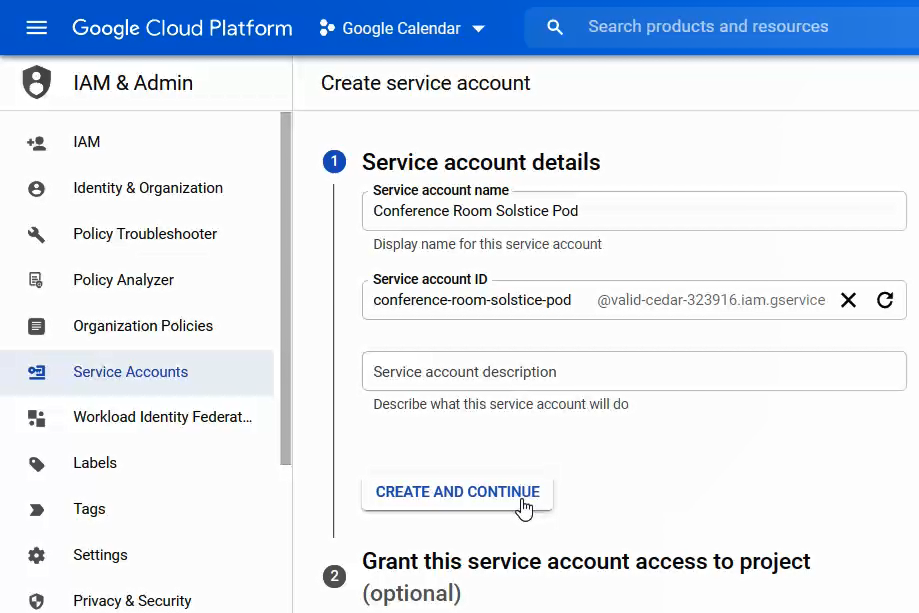
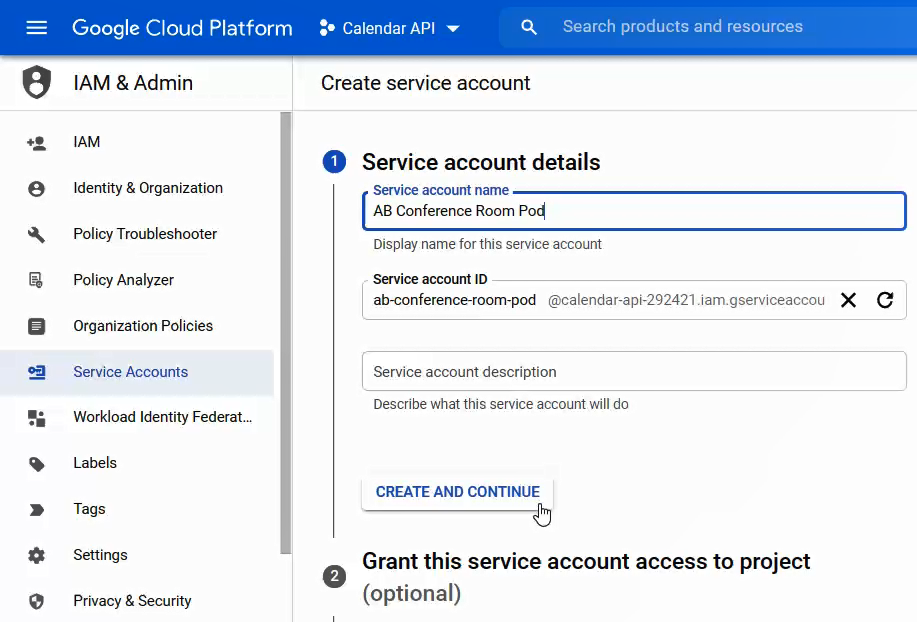
Second part of update of Info-Google-Calendar topic (screenshots, text revisions)

diff --git a/Content/Topics/Info-Google-Calendar.htm b/Content/Topics/Info-Google-Calendar.htm
@@ -3,22 +3,20 @@
     <head>
     </head>
     <body>
-        <h1>Integrating Google Workspace Resource Calendars with Solstice</h1>
+        <h1>Google Workspace Settings for Integrating Resource Calendars with Solstice</h1>
         <p>Integrating the calendar for a room that is set up as a resource in Google Workspace allows you to use the Solstice Pod's display to show  the calendar information for the resource when there is no other content being shared. Looking at the Pod display, participants can see if the space is currently scheduled or available, as well as the next three upcoming meetings in the space. </p>
         <p>If your organization is using Solstice Conference, integrating a room also lets Solstice detect  the web conferencing information in the calendar invite when users book a web conference and invite the room. This allows Solstice to start the scheduled web conferencing when the meeting host connects to the Solstice display. </p>
         <p>The following procedures assume: </p>
         <ul>
-            <li>Your organization has created resources  that can be scheduled by users. The calendars for these  resources will be displayed on the Pod when the integration is complete. You will want to have the Resource ID and Resource email of the room on hand when you perform steps 2 and 4. An example of a Resource ID&#160;for a conference room called Telluride is shown below. Google Workspace  resources can be located and managed at <i>Google Admin &gt; Resource Management &gt; Resources</i> (e.g. https://admin.google.com/ac/calendarresources/resources ). <MadCap:expanding><MadCap:expandingHead><a name="Example"></a>Example</MadCap:expandingHead><MadCap:expandingBody><br /><img src="../Resources/Images/GoogleCloudIntegrationResourceID.png" style="width: 342px; height: 363px;" class="noborder" /></MadCap:expandingBody></MadCap:expanding></li>
-            <li>Your organization has enabled the Google Calendar API in Google Cloud Platform. This API can be located and managed at <i>Google Cloud Platform &gt; Google Calendar</i> (e.g. https://console.cloud.google.com/home/dashboard ).</li>
-            <li>If you want  to show meeting organizers on the Pod display, those users need to have their profiles set to Active in Currents. User profile settings can be located and managed at <i>Google Admin &gt;Apps &gt; Google Workspace &gt; Currents &gt; Profiles</i> (e.g. https://admin.google.com/ac/gplus/users ).</li>
+            <li>For each space with a Solstice Pod, your organization has created resources in the Google platform that can be scheduled by users. The calendars for these  resources will be displayed on the Pod when the integration is complete. You will need the Resource email to configure the Solstice Pod's settings. <p>An example of a Resource created for the space AB Conference Room is shown below. Google Workspace  resources can be located and managed at <a href="https://admin.google.com/ac/calendarresources/resources" target="_blank">Google Admin &gt; Directory &gt; Buildings and resources &gt; Manage resources</a>. <MadCap:expanding><MadCap:expandingHead><a name="Example"></a>Example</MadCap:expandingHead><MadCap:expandingBody><br /><img src="../Resources/Images/ex_IntegrateGCalResourceInfo.png" class="noborder" style="width: 40%;" /></MadCap:expandingBody></MadCap:expanding></p></li>
+            <li>Your organization has enabled the Google Calendar API in Google Cloud Platform. This API can be located and managed at <a href="https://console.cloud.google.com/home/dashboard" target="_blank">Google Cloud Platform &gt; Calendar API</a>.</li>
+            <li>If you want  to show meeting organizers on the Pod display, those users must have "Active" profiles. User profile settings can be located and managed at <a href="https://admin.google.com/ac/users" target="_blank">Google Admin &gt; Directory &gt; Users</a>.</li>
         </ul>
-        <h2>How to Update Your Google Workspace Configurations to Integrate with Solstice</h2>
+        <h2>How to Configure Google Workspace to Integrate with Solstice</h2>
         <p>The general steps for configuring a resource in Google Workspace to allow its calendar to be displayed on the Pod are:</p>
         <ol>
             <li>Create a service account that the Pod can use to get information about the resource's calendar.</li>
-            <li>
-                <p>Delegate Domain-Wide Authority to the service account.</p>
-            </li>
+            <li>Delegate Domain-Wide Authority to the service account.</li>
             <li>Grant the service account access to the resource's calendar.</li>
         </ol>
         <MadCap:dropDown>
@@ -27,18 +25,17 @@
             </MadCap:dropDownHead>
             <MadCap:dropDownBody>
                 <ol>
-                    <li>From the Google Cloud Platform dashboard, use the left bar to navigate to <b>AIM &amp; Admin &gt; Service Accounts</b>.<p><img src="../Resources/Images/ex_IntegrateGCalSvcAccts.png" class="noborder" style="width: 55%;" /></p></li>
+                    <li>From the Google Cloud Platform dashboard, use the left bar to navigate to <b>IAM &amp; Admin &gt; Service Accounts</b>.<p><img src="../Resources/Images/ex_IntegrateGCalSvcAccts.png" class="noborder" style="width: 55%;" /></p></li>
                     <li>Click <b>Create Service Account</b>.<p><img src="../Resources/Images/ex_IntegrateGCalCreateSvcAcct.png" class="noborder" style="width: 75%;" /></p></li>
                     <li>Enter a name for the service account and click <b>Create and Continue</b>.<p><img src="../Resources/Images/ex_IntegrateGCalNameSvcAcct.png" class="noborder" style="width: 90%;" /></p></li>
-                    <li>In the <b>Grant this service account access...</b> step, select <b>Viewer</b>, then click <b>Continue</b>.<p><img src="../Resources/Images/ex_IntegrateGCalSvcAcctAccess.png" class="noborder" style="width: 90%;" /></p></li>
+                    <li>In the <b>Grant this service account access...</b> step, select the role of <b>Viewer</b>, then click <b>Continue</b>.<p><img src="../Resources/Images/ex_IntegrateGCalSvcAcctAccess.png" class="noborder" style="width: 90%;" /></p></li>
                     <li>Click <b>Done</b> to create the new service account.</li>
                     <li>In the Service Accounts table, click the account you just created.</li>
-                    <li><a name="Under"></a>Under <b>Service  account details</b>, note the <b>Email</b> for the service account. You will need this email address when you grant the service account access to the resources calendar.<p><img src="../Resources/Images/ex_IntegrateGCalSvcAcctDetails.png" class="noborder" style="width: 60%;" /></p></li>
+                    <li><a name="ServiceAccount_Details"></a>Under <b>Service  account details</b>, note the <b>Email</b> and <b>Unique ID</b> for the service account. You will need this information in Steps 2 and 3.<p><img src="../Resources/Images/ex_IntegrateGCalSvcAcctDetails.png" class="noborder" style="width: 60%;" /></p></li>
                     <li>Under <b>Service account status</b>, expand the <b>Show Domain-Wide Delegation</b> section.</li>
                     <li>Check <b>Enable Google Workspace Domain-wide Delegation</b> and click <b>Save</b>.</li>
                     <li>Navigate to <b>Keys</b> under the Service Account name. Select <b>Add Key &gt; Create new key &gt; JSON</b> and click <b>Create</b>.<p><img src="../Resources/Images/ex_IntegrateGCalSvcAcctKeyJSON.png" class="noborder" style="width: 80%;" /></p></li>
-                    <li><b>Save</b> the downloaded JSON file to a safe location. You will also need to place a copy of the key in a location where it can be accessed by the Solstice Dashboard. </li>
-                    <li><b>Close</b> the <b>Private key saved to your computer</b> box to return to the Service Accounts list.</li>
+                    <li>Save the downloaded JSON file to a safe location. You will also need to place a copy of the key in a location where it can be accessed by the Solstice Dashboard. </li>
                 </ol>
             </MadCap:dropDownBody>
         </MadCap:dropDown>
@@ -48,13 +45,12 @@
             </MadCap:dropDownHead>
             <MadCap:dropDownBody>
                 <ol>
-                    <li>From the Google Admin screen, click <b>Security</b>.</li>
-                    <li>At the bottom of the Security page, click <b>API controls</b>.</li>
+                    <li>Log in to Google Admin, then use the left bar to navigate to <b>Security &gt; API controls</b>.</li>
                     <li>At the bottom of the API&#160;controls screen click <b>Manage Domain Wide Delegation</b>.</li>
                     <li>On the Domain-wide Delegation page, click <b>Add new</b>.</li>
-                    <li>On the Add a new client ID screen, enter the Client ID of the resource.  The ID looks something like this: 82472068555. (See <a href="#Example">Prerequisites</a>.)</li>
-                    <li>In the OAuth scopes field, enter this URL: https://www.googleapis.com/auth/calendar.readonly<p><img src="../Resources/Images/GoogleCloudIntegration0AuthScope.png" style="width: 404px;height: 359px;" /></p></li>
-                    <li>Click <b>Authorize</b>. The delegation scope is added for the resource.</li>
+                    <li>On the <b>Add a new client ID</b> screen, enter the Unique ID of the service account you created for the Solstice Pod, which will look something like 117590591008199121085. (See the <a href="#ServiceAccount_Details">service account details screen</a> above.)</li>
+                    <li>In the OAuth scopes field, enter this URL: https://www.googleapis.com/auth/calendar.readonly<p><img src="../Resources/Images/ex_IntegrateGCalDomainDelegate.png" style="width: 50%;" /></p></li>
+                    <li>Click <b>Authorize</b>. The delegation scope is now added for the resource.</li>
                 </ol>
             </MadCap:dropDownBody>
         </MadCap:dropDown>
@@ -64,15 +60,15 @@
             </MadCap:dropDownHead>
             <MadCap:dropDownBody>
                 <ol>
-                    <li>As a Google Workspace super admin, open Google Calendar.</li>
-                    <li>From the My calendars section of the screen, locate the resource whose calendar you want to share and click <b>Options</b> and then <b>Settings and sharing</b>.<p><img src="../Resources/Images/GoogleCloudCalendarOptions.png" style="width: 365px; height: 655px;" class="noborder" /></p></li>
-                    <li>About half-way down the page, under Share with specific people, click <b>Add People</b>.</li>
-                    <li>Enter the email address of the service account and then click <b>Send</b>. The resource's calendar information is now shared with the service account. (See <a href="#Under">Step 7 of "Create a Servce Account for the Mersive Pod."</a>)<p><img src="../Resources/Images/GoogleCloudCalendarShare.png" style="width: 500px; height: 328px;" class="noborder" /></p></li>
+                    <li>From Google Admin, open Google Calendar.</li>
+                    <li>From the <b>My calendars</b> section on the left, hover over the resource whose calendar you want to share, click the options dots, and select <b>Settings and sharing</b>.<p><img src="../Resources/Images/ex_IntegrateGCalSettings.png" class="noborder" style="width: 40%;" /></p></li>
+                    <li>About halfway down the page, under <b>Share with specific people</b>, click <b>Add People</b>.</li>
+                    <li>Enter the email address of the service account for the Solstice Pod located in that space (see the <a href="#ServiceAccount_Details">service account details screen</a> above) and then click <b>Send</b>. The resource's calendar information is now shared with the service account.<p><img src="../Resources/Images/ex_IntegrateGCalShare.png" class="noborder" style="width: 65%;" /></p></li>
                 </ol>
             </MadCap:dropDownBody>
         </MadCap:dropDown>
         <h3 MadCap:conditions="Default.ScreenOnly">Related Topics</h3>
-        <p MadCap:conditions="Default.ScreenOnly"><a href="Cloud-Template-Calendar.htm">Solstice Cloud:&#160;Room Calendar Template</a>
+        <p MadCap:conditions="Default.ScreenOnly"><a href="Cloud-Template-Calendar.htm">Solstice Cloud:&#160;Room Calendar Template Settings</a>
         </p>
         <p MadCap:conditions="Default.ScreenOnly"><a href="Admin-Room-Calendar.htm">Solstice Dashboard:&#160;Room Calendar Settings </a>
         </p>
